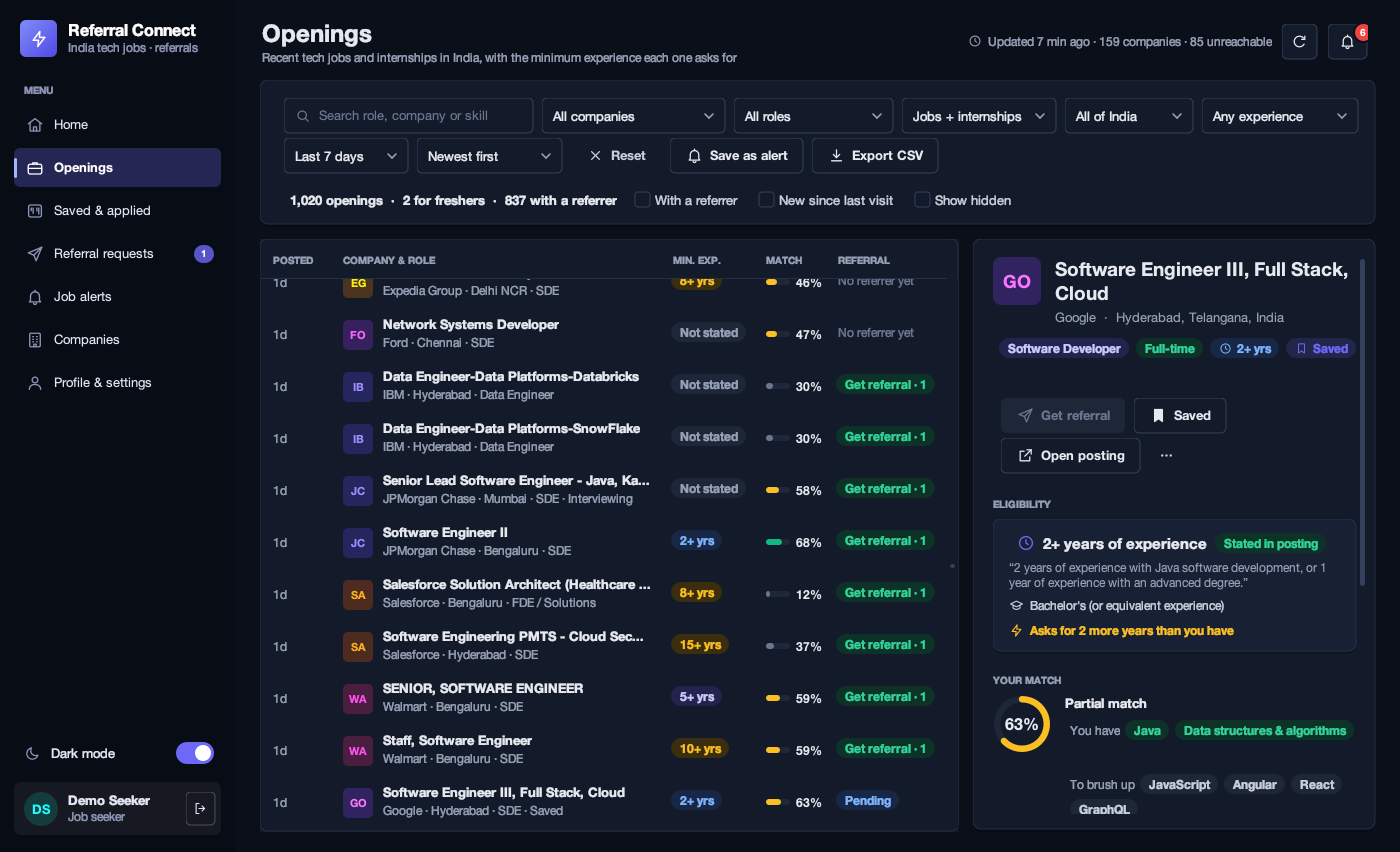
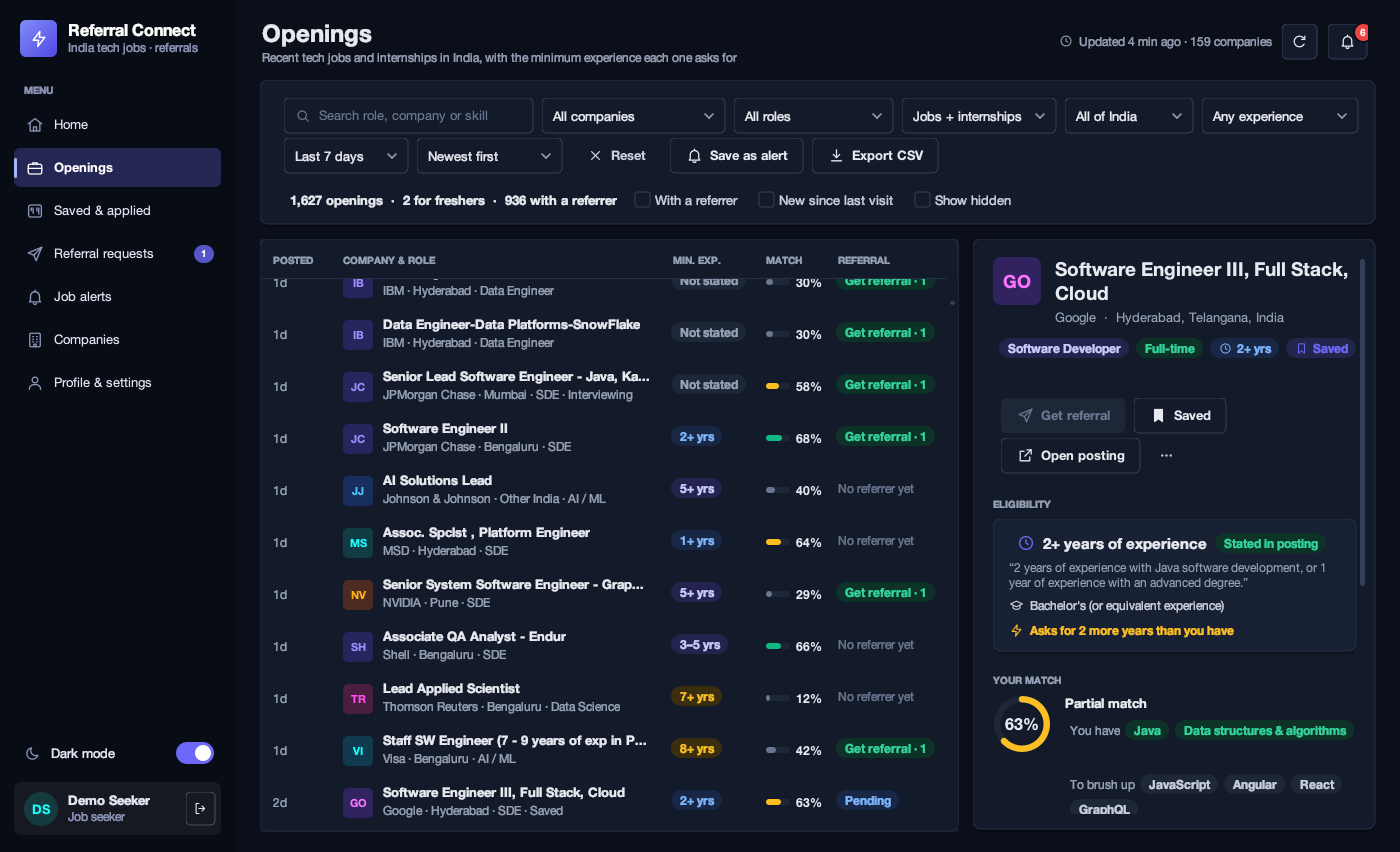
Refresh screenshots and coverage numbers from a complete scan
Taken after Workday's maintenance ended: all 159 companies reachable, 3,119 openings, minimum experience stated for 2,253.

diff --git a/README.md b/README.md
@@ -161,7 +161,9 @@ are now handled and covered by tests. The 27 postings it marks "Not stated" real
 Where the descriptions come from: Amazon, Google, Lever, Ashby, AMD (Jibe) and IBM include them in
 their listings; for Workday, Eightfold, Oracle, Greenhouse, SmartRecruiters, Apple and Radancy the app
 fetches each matching job's description once, newest first, and remembers what it read, so later scans
-only read new jobs.
+only read new jobs. In a live scan of all 159 companies (3,119 openings, about 4½ minutes), the minimum
+was **stated for 2,253** openings (72%) and only preferred for 37. Another 265 were not read yet and get
+read on the next scan, and the rest state no number of years.
 
 Your **match score** (0–100%) combines your skills with the posting's (its first-listed, core skills
 count most), your years of experience against its minimum, and the roles and cities you picked in your
